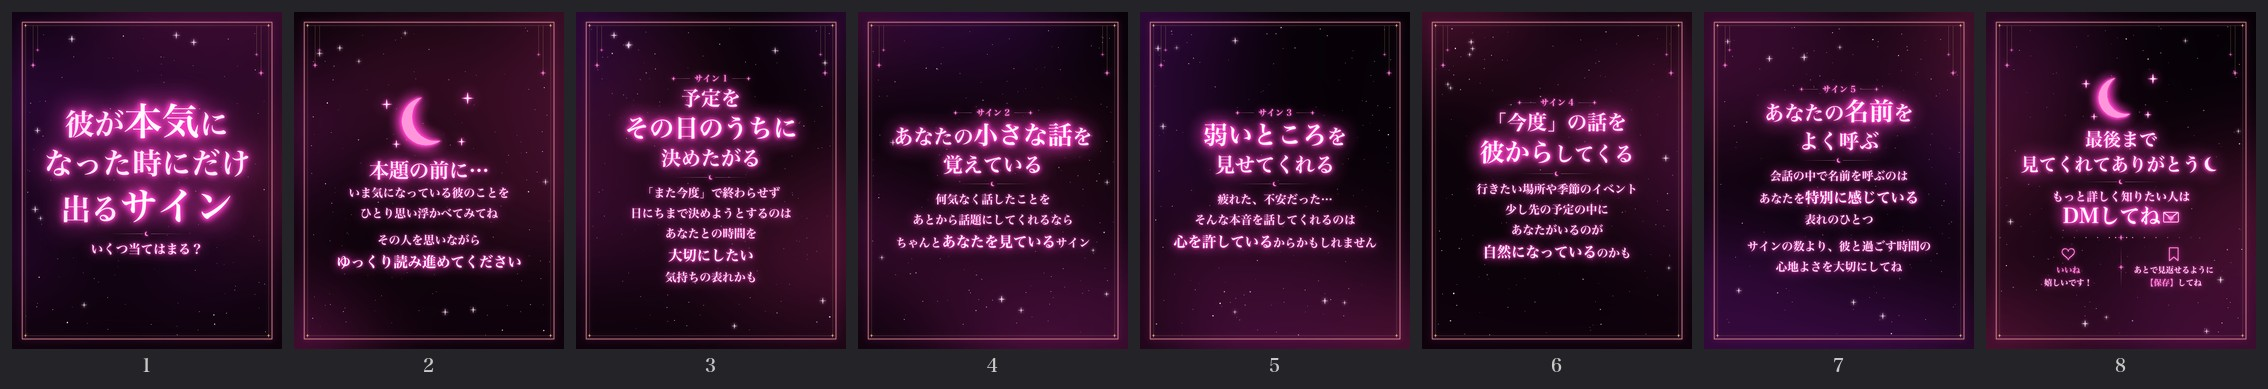
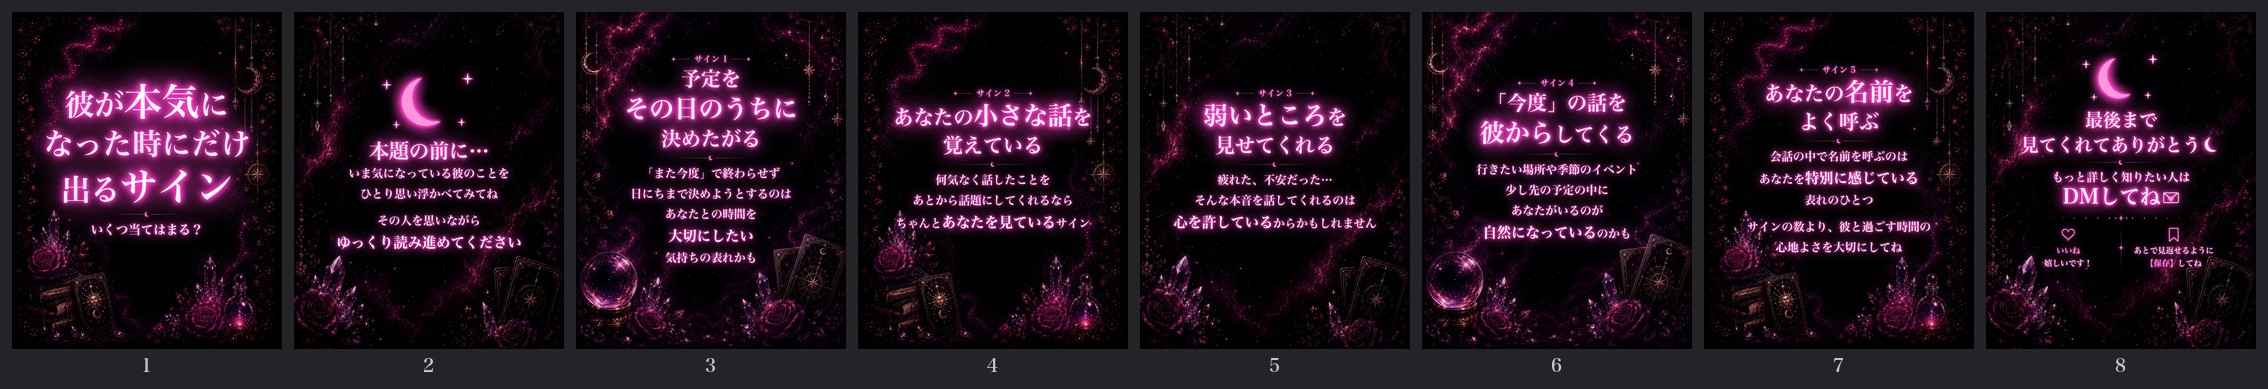
カルーセルに用意した背景画像を使えるように、ルナの背景3枚と見本を作り直し

diff --git a/make_carousel.py b/make_carousel.py
@@ -9,6 +9,7 @@ YAML と同じ名前のフォルダに 1.jpg, 2.jpg, ...（1080x1350）を書き
 YAML の書き方:
   theme: rei | luna          # rei = 紺と金の星空 / luna = 紫とピンクのネオン（make_reel.py と同じ雰囲気）
   seed: 3                    # 星の配置（省略可）
+  backgrounds: [images/renai/backgrounds/bg1.jpg, ...]  # 用意した背景画像を順番に使う（省略可）
   slides:
     - type: cover            # 表紙: eyebrow / title / subtitle / note / art: wheel | moon
     - type: text             # icon / eyebrow / heading / body / emphasis: [行番号] / sections: [{label, text}] / note
@@ -1050,13 +1051,32 @@ def build(s, t, theme_name):
     return els
 
 
-def render_slide(s, theme_name, seed, index):
+def load_background(path):
+    """用意された背景画像を 1080x1350 にそろえ、文字が乗る真ん中を少しだけ暗くする。"""
+    im = Image.open(path).convert("RGB")
+    scale = max(W / im.width, H / im.height)
+    im = im.resize((round(im.width * scale), round(im.height * scale)), Image.LANCZOS)
+    left, top = (im.width - W) // 2, (im.height - H) // 2
+    arr = np.asarray(im.crop((left, top, left + W, top + H))).astype("float32")
+    yy, xx = np.mgrid[0:H, 0:W]
+    calm = np.exp(-(((xx - W / 2) / (W * 0.40)) ** 2 + ((yy - H * 0.42) / (H * 0.34)) ** 2))[..., None]
+    arr *= 1 - 0.35 * calm
+    return Image.fromarray(np.clip(arr, 0, 255).astype("uint8")).convert("RGBA")
+
+
+def render_slide(s, theme_name, seed, index, bg_path=None):
     t = THEMES[theme_name]
     rnd = random.Random(seed)
-    slide = Slide(t, background(theme_name, t, rnd, index))
-    frame(slide, theme_name)
+    if bg_path:
+        # 用意された背景（飾りや枠が描かれている）を使うときは、枠を描かず、下の飾りをよけて文字を置く
+        slide = Slide(t, load_background(bg_path))
+        top, bottom = SAFE_T + 20, H - 300
+    else:
+        slide = Slide(t, background(theme_name, t, rnd, index))
+        frame(slide, theme_name)
+        top, bottom = SAFE_T, SAFE_B
     els = build(s, t, theme_name)
-    avail = SAFE_B - SAFE_T
+    avail = bottom - top
     g = 1.0
     for _ in range(14):
         hs = [el.measure(g) for el, _ in els]
@@ -1065,11 +1085,11 @@ def render_slide(s, theme_name, seed, index):
         if total <= avail or g < 0.5:
             break
         g *= 0.95
-    y = max(SAFE_T, (SAFE_T + SAFE_B) / 2 - total / 2 - 8)
+    y = max(top, (top + bottom) / 2 - total / 2 - 8)
     for (el, _), h, gap in zip(els, hs, gaps + [0]):
         el.draw(slide, y)
         y += h + gap
-    if theme_name == "rei" and s.get("constellation", True):
+    if theme_name == "rei" and s.get("constellation", True) and not bg_path:
         constellation(slide, rnd)
     if g < 1:
         slide.warnings.append(f"縦に入りきらないので {g:.2f} 倍に縮めました")
@@ -1106,8 +1126,11 @@ def main(argv):
             old.unlink()
     seed = spec.get("seed", 7)
     paths = []
+    # backgrounds: [画像, ...] を書くと、ページごとに順番に背景として使う（slide の background: で個別指定も可）
+    bgs = [spec_path.parent / b if not Path(b).is_absolute() and not Path(b).exists() else Path(b) for b in spec.get("backgrounds", [])]
     for i, s in enumerate(slides, 1):
-        img, warnings = render_slide(s, theme_name, seed * 100 + i, i)
+        bg = s.get("background") or (bgs[(i - 1) % len(bgs)] if bgs else None)
+        img, warnings = render_slide(s, theme_name, seed * 100 + i, i, bg)
         path = out_dir / f"{i}.jpg"
         img.save(path, quality=92, subsampling=0)
         paths.append(path)
